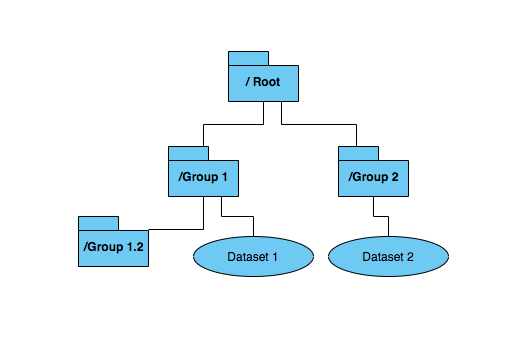
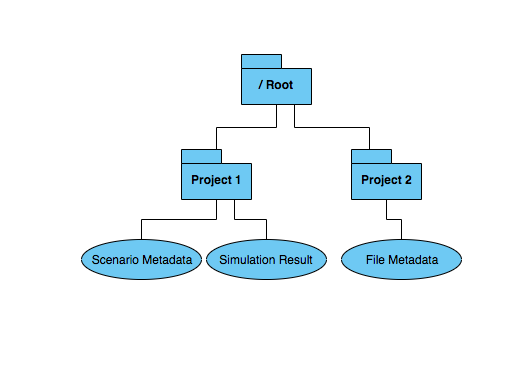
Revision 3.6

Changed region(s): [[0.1468, 0.1479, 0.91, 0.8284]]

diff --git a/chapter/introduction/introduction.tex b/chapter/introduction/introduction.tex
@@ -4,7 +4,7 @@
 \newpage
 %\part{start}
     \chapter{Introduction}
-    Nowadays consumers and businesses are continuously growing aware of the value of archives. As the archived data has also proven
+    Nowadays consumers and businesses are continuously getting aware of the value of archives, as the archived data has also proven
     to be valuable asset in the field of scientific research where an expert could archive their data for future reference. Having said that, the 
     MARS\footnote{MARS: Multi Agent Research and Simulation} framework offers an easy interactive platform for a domain expert i.e. ecologist, biologist, 
     chemist to simulate complex real life scenarios (e.g. reproduction of bacteria in a body) based on the concept of Agent-based modeling and simulation 
@@ -16,7 +16,9 @@
         an Archive service would provide an opportunity for the MARS system to improve their
         performance because this service would move some part of data from the primary storage (Ceph cluster \cite{Ceph}) to the secondary storage (NAS synology \cite{Synology}). 
 
-        The MARS system design is based on a Microservice architecture \cite{MicroserviceNewMan} having a decentralized data \cite{atomic} access structure. 
+        However, the underlying structure of the MARS system is also quite
+        challenging to archive a given simulation with its resources.
+        The system design is based on a Microservice architecture \cite{MicroserviceNewMan} having a decentralized data \cite{atomic} access structure. 
         The MARS Resources have a hierarchal
         structure (Section \ref{subsection:MARSResource}) which has to be followed so a successful simulation can occur. As per the design of MARS these resources
         are stored separately in different storages/databases which should be accessed only by a certain API. Due to this underlying structure of the system it is quite 
@@ -26,19 +28,19 @@
         
         
         \section{Goals}
-        The primary goal of this thesis is to design and implement an Archive service which would be able to deal with the decentralized
+        The primary goal of this thesis is to design and implement an Archive service which would deal with the decentralized
         structure of the MARS framework and provide an easy interface for users to archive and restore the projects and simulations back into the system.
        
         \par
         At the time of writing this thesis, the project resources are stored in a
         Ceph distributed file system \cite{Ceph}. It provides more efficiency, reliability, and
-        scalability by separating data and metadata using a pseudo-random data distribution function\cite[p.~307]{{Ceph}} to store data in 
+        scalability by separating data and metadata using a pseudo-random data distribution function\cite[p.~307]{{Ceph}} inorder to store data in 
         a distributed system \cite{DistributedSystems}. Although
         efficiency and scalability comes at a price, it is financially more expensive to possess such a system in larger volumes.
         In contrast to its continuous data production, the primary storage volume available to the system is very limited.
         Additionally, a high level of correlation has been observed between the operating cost of a software system and its data volume. 
          Therefore, the Archive service would move the requested data from the Ceph storage to the slower NAS\footnote{NAS: Network Attached Storage} Synology
-        \cite{Synology}. This cloud storage is owned by the MARS for backup and archive purpose.
+        \cite{Synology}. This cloud storage is owned by the MARS for backup and archive purposes.
            
 
      
@@ -55,18 +57,17 @@
             to get and post data into their respective databases creating more risk to failures.
             
             \item 
-            \textbf{Data consistency and coherence:} By design the communication within the MARS system is executed via remote network call like HTTP\footnote{HTTP: Hyper Text Transfer Protocol} 
-            or RPC\footnote{RPC: Remote Procedure Calls} making the transactions span over multiple systems. 
-            Therefore it is extremely difficult to maintain a strong data consistency and coherence as the
+            \textbf{Data consistency and coherence:} By design of the MARS system it is necessary for the Archive service to have a distributed transaction. 
+            Therefore, it is extremely difficult to maintain a strong data consistency and coherence as the
             change of data in one database is unknown to the other service since an ACID \cite[p.~290]{{Haerder1983}} transaction between the databases does not exist. Thus, the archiving 
-            process can unintentionally be led into a false state in case of failure during communication.
+            process can unintentionally be led to a false state in case of failure during communication process.
 
             \item 
             \textbf{Understanding MARS resource hierarchy:} The MARS Resource Hierarchy is the order in which the assets in the system have to be created. Understanding
-            this complex hierarchy(Section \ref{subsection:MARSResource}) is vital sincerestoring or archiving data may lead to corrupted states.
+            this complex hierarchy(Section \ref{subsection:MARSResource}) is vital since restoring or archiving data may lead to corrupted states.
             \item
             \textbf{Additional changes to MARS services:}
-            Also, for the Archive service to behave as intended, additional functionalities have to be added into the other services. The Archive service 
+            Also, for the Archive service to operate as intended, additional functionalities have to be added into the other services. The Archive service 
             is only allowed to communicate via API gate i.e. HTTP or RPC as accessing another service's database directly is considered an Anti-pattern \cite[p.~27]{{Torre2017}}.
             It imposes another challenge in understanding the structure and algorithms of services which are drafted in various technologies.
          

diff --git a/chapter/mainpart/theory/distributedSystems.tex b/chapter/mainpart/theory/distributedSystems.tex
@@ -1,7 +1,7 @@
 \section{Distributed Systems}
 
     The MARS cloud is architectured as a distributed system. Thus, it is of great importance to understand
-    this architecture, so that one can anticipate how the MARS framework operates in the background and
+    this architecture, so that one can anticipate the operations of the MARS framework and
     the technical challenges that could occur due to its complex structure.
     \par
     A distributed system can be defined as a number of autonomous computing elements which 
@@ -28,17 +28,17 @@
     Distributed Systems can be utilized to realize a complex application dispersed across
     multiple machines which communicates via a network protocols(e.g. HTTP \cite{HTTP}, 
     GRPC \cite{grpc}). The 
-    components interacts with each other to achieve a common goal. It also provides
-    more reliability than a non-distributed system because there is no single point
+    components interact with each other to achieve a common goal. It also provides
+    more reliability compared to a non-distributed system because there is no single point
     of failure when a system is designed properly. 
 
     \par
     Figure \ref{fig:distributedSystem} shows an example of an application being 
-    distributed amongst different computers. It can also be seen that the the different parts of the application are allowed
+    distributed amongst different computers. It can also be seen that the different parts of the application are allowed
     to communicate via a common middleware whose main responsibility is to
     efficiently manage resources across the distributed applications. This kind of system
     makes most sense for deployment which require high performance computing power as this system can allow an application to share different
-    resources (e.g CPU power, memory and storage) located on another machine.
+    resources (e.g CPU power, memory and storage) located in another machine.
 
 
 
@@ -48,7 +48,7 @@
         \subsubsection{Reliability and Availability}
         One of the main reasons for building a distributed system is to make the application free from single failure events.
         Since the application is generally spread across different nodes connected via a network, failure of a single node will not 
-        crash the system completely. This makes a distributed system more available, reliable and independent to a user as the availability
+        crash the system completely. This makes a distributed system more available, reliable, and independent to a user as the availability
         of the application is not hindered completely.
         
         \subsubsection{Scalability}
@@ -64,22 +64,22 @@
         \subsubsection{Data Coherency}
         The data is said to be coherent when it is uniform across an entire network. In other words, data is coherent when all
         the resources between a server and a client is synchronized. 
-        Since a distributed system is susceptible to network failures, therefore a network partition \cite[p.~59]{CAP} cannot be avoided. In presence
+        Since a distributed system is susceptible to network failures, a network partition \cite[p.~59]{CAP} cannot be avoided. In presence
         of a network partition the change in data will not be synchronized to all of its client leading to have inconsistent data. Furthermore, the
-        complexity to maintaining this coherency increases drastically when the system has more clients trying to gain access to the data. This phenomena
+        complexity to maintain this coherency increases drastically when the system has more clients trying to gain access to the data. This phenomena
         must be taken into consideration while designing an application for this kind of system.
 
         \subsubsection{Network Issues}
-        Generally in a distributed system different applications communicate via network protocols i.e. HTTP, GRPC. It is to be noted that
-        communication via a network is not always reliable. This is because managing a distributed network is rather complex and due to
+        Generally in a distributed system, different applications communicate via network protocols i.e. HTTP, GRPC. It is to be noted that
+        communication via a network is not always reliable. This is because managing a distributed network is rather complex. Also due to
         external reasons the communication can break leading to loss of messages which disables some parts of the application. 
         This phenomena is also not seen in a single system.
 
         \subsubsection{Error Handling}
-        Errors are imminent in every application and for it to continue working normally again it has to be able to detect and recover from them.
+        Errors are imminent in every application and to continue working normally again it has to detect and recover from them.
         Detecting errors in a distributed system requires a different approach since the application is spread across multiple systems. 
-        It is not enough that each service ensures its own correctness because the system is interconnected via some kind of
-        network connection. Due to the fact that network is also involved in a distributed system there is additional error detection methods that have
+        It is not enough that each service ensures its own correctness because the system is interconnected via a
+        network connection. Due to the fact that the network is also involved in a distributed system there are additional error detection methods that have
         to be implemented. This brings up more complications in comparison to a single system where an error is contained within a single system.
 
          

diff --git a/chapter/mainpart/design/ArchiveDesign.tex b/chapter/mainpart/design/ArchiveDesign.tex
@@ -44,14 +44,16 @@ This file system can hold a variety of heterogeneous objects like images, graphs
 The HDF5 format has two primary objects which define the data storage structure:
 \begin{enumerate}
     \item \textbf{Groups:}  They are responsible to organize the data objects in the HDF5 file format. A group can be compared to a directory 
-    in Windows or a Unix system \cite{HDF5}. Figure \ref{fig:HDF5} shows an example of a Group in a HDF5 file. Using the API of the HDF5 libraries a Dataset 
-    (e.g. Dataset1) can be accessed via the path name (e.g. /Root/Group1/Dataset1).
+    in Windows or a Unix system \cite{HDF5}. Figure \ref{fig:HDF5} shows an example of a Group (e.g. project1) in a HDF5 file. Using the API of the HDF5 libraries a Dataset 
+    (e.g. scenario Metadata) can be accessed via the path name (e.g. /Root/project1/scenario Metadata).
     \item \textbf{Datasets:} A dataset can be defined as a multidimensional array of data. This object contains the raw/actual data which one would like to store (e.g. simulation results).
     These data are stored in a tabular format 
     one can specify the different data types for the raw data i.e. integer, float, character, variable length strings \cite{HDF5}. Figure \ref{fig:dataset} shows
     an example of a Dataset in a HDF5 file which is stored in a an array.
 \end{enumerate}
-%The Groups in the 
+
+Figure \ref{fig:HDF5} also shows how the groups and datasets can be used to archive the MARS projects. Every new project to be archive will be added as a new Group
+as depicted in the figure and the datasets are the resources i.e. scenario, file, simulation results. 
 
 \begin{figure}[H]
     \centering \includegraphics[scale=0.6]{grafiken/groupsHDF5.png}
@@ -74,15 +76,23 @@ data should be easily accessible to a non expert and using MongoDB requires some
 
 
 \subsubsection{Conclusion}
-   After careful consideration,  
-    it seems so that HDF5 file formats is not suitable for the archive and retrieve process.      
-    To store the data in an HDF5 format the JSON formated metadata must be parsed first and then
-    be stored in the multidimensional array structure of HDF5. Since it is very complicated to parse the metadata of different models this
-    file format will not be used for this thesis. 
-
-    Lastly, the file format for archive is planned to be JSON for the metadata files i.e. simulation runs, simulation plans, scenarios and, result configuration. All the project resources will be packed inside a folder in the Synology (See Figure \ref{fig:synology})
-    which is easily accessible via the MARS network. The decision to use JSON is due to the fact that the API in the MARS back end services 
-    use the JSON structure to communicate. Using this structure simplifies the process of archive and also retrieve as the metadata can be easily saved.
+   %The HDF5 is a very powerful file format providing more efficient data storage and lookup by separating its raw data with its metadata. 
+    To store the data in HDF5 all the attributes of the metadata in JSON must be parsed in a n-dimensional array structure which can be understood by the HDF5. 
+    It is important to understand that MARS supports different kind of models which makes it impossible to predict the structure of a resource. To elaborate, the
+    Wolves and Sheep \cite{HAWHamburgMARS} model has a different metadata structure than the KNP \cite{HAWHamburgMARS} model as the Agents and Layers involved are 
+    different. Due to this reason, the resources
+    must be parsed every time into a n-dimensional array and at the time of restore this has to be converted back to a JSON again as the MARS system
+    does not understand the HDF5 structure. In addition, to not parse the data at all, a 1 dimensional array of size 1 was created of type variable string. All the unparsed text data
+    was stored in this array. The main intention of this experiment was to see how the HDF5 files would react as it easy to get the string from a 1d array.
+    This also turned out to be a very bad idea as it created so much overhead to the file that a JSON file with the size of 2 KB
+    had a file size of around 0.5MB for the HDF5 variant. 
+    
+    Considering the above mentioned factors the file format for the metadata is planned to be JSON. Different advantages such as easy handling, no extra conversion
+    required, easy conversion to different types of file format i.e. CSV used often in the MARS for analysis makes it more suitable for this purpose. 
+    In comparison to the simulation results (can range up to TB of data) the metadatas are not large and the meta files for each kind of resources
+    are going to be stored separately (e.g. scenario.json, resultConfiguration.json). Splitting the JSON files like this would aid in faster serialization and 
+    deserialization. As the input files and the simulation results do not need to be read they are just chosen to be zipped.
+ 
 \begin{figure}[H]
     \centering \includegraphics[scale=0.45]{grafiken/archiveActivity.png}
     \caption{Activity Diagram of MARS project Archive process}

diff --git a/chapter/mainpart/conclusion/conclusion.tex b/chapter/mainpart/conclusion/conclusion.tex
@@ -3,26 +3,26 @@ This work presents the design and implementation of the Archive service within t
 in this paper concentrates on aspects of archiving and restoring the resources of a project stored in a distributed storage, managing the synchronization
 -- control of the MARS Resources hierarchy mentioned in Section \ref{subsection:MARSResource} and failure recovery using the Two Phase Commit strategy
 on decentralized data \cite{atomic}.
-Also, a brief overview of the challenges and introduction to MARS system is included.
+Also, a brief overview of the challenges and introduction to MARS system.
 
-As seen, there are different strategies to access the decentralized data for archiving, but decision of accessing the data was done via communicating
+As seen, there are different strategies to access the decentralized data for archiving. However, the decision of accessing the data was done via communicating
 with the corresponding service's API which gives more transparency to the system since only one entity is given access to a particular data source at the price of 
 complexity of maintaining the service which includes multiple point failure and data corruption possibilities. The service designed is aimed to handle such situations
 to its best using the mentioned strategies in Chapter \ref{chap:design}.
 
 Finally, in the process of developing this system a deep understanding of Distributed System, Microservice together with the state-of-the-art technological stacks
-such as Kubernetes \cite{kubernetes}, Docker etc has been established. Together with this knowledge an Archive service for the MARS framework has been implemented and integrated 
-that would aid in improving the performance of the MARS system by moving inactive data into the Synology storage.
+such as Kubernetes \cite{kubernetes}, Docker, etc., has been established. Together with this knowledge, an Archive service for the MARS framework has been implemented and integrated 
+which aids in improving the performance of the MARS system by moving inactive data into the Synology storage.
 
 \section{Further Work}
 It is a point of interest that the Archive service would be further enhanced. Firstly, it is seen that the current UI design of the archive process is not very convenient
-for the users as the archived and unarchived projects are grouped together which may produce some confusion. One proposal would be to design a separate section
-where the archived projects could be shown. To aid this process the implementation of the mark showing if the project is archived or not is already included which is
+for the users as the archived and unarchived projects are grouped together which may produce some confusion. One proposal could be to design a separate section
+where the archived projects could be shown. To aid this process the implementation of the mark showing if the project is archived or not is already included, which is
 changed via the Archive service. 
 
 Secondly, improving the performance of the archive and retrieve would also be a factor to be considered next. The archive and retrieve process are implemented as
-an atomic operation. Therefore, in case of failure the process is repeated from the starting causing big performance loss for larger projects. More research and effort
-has to be put forward to obtain a solution for this issue. 
+an atomic operation. Therefore, in case of failure the process is repeated from the beginning, causing big performance loss for larger projects. More research and effort
+have to be put forward to obtain a solution for this issue. 
 
 It can be noticed from the sequence diagram that the resources are being persisted right after they are successfully retrieved rather than a bulk operation
 (e.g. sequence number 1.8 in Figure \ref{fig:sequenceArchive}). This

diff --git a/chapter/mainpart/analysis/functional.tex b/chapter/mainpart/analysis/functional.tex
@@ -47,7 +47,7 @@
         \subsubsection{Assurance of correct data being persisted}
             MARS being a Distributed System, Data Coherency (Subsection \ref{subsection: distriChallenges}) 
             is one of the big issue which this thesis faces. As a consequence,
-            wrong or unwanted data could be archived. Therefore the Archive service must ensure that while an archive is running the data would not be
+            wrong or unwanted data could be archived. Therefore, the Archive service must ensure that while an archive is running the data is not
             altered.
         
         \subsection{Retrieve Project Resources}    
@@ -62,12 +62,12 @@
             \end{figure}
 
             Figure \ref{fig:synology} illustrates that the Archive service must only use the volume assigned for archiving and nothing more. 
-            This requirement must be fulfilled to comply with the MARS development standard. It has to also be made sure that the retrieved
+            This requirement must be fulfilled to comply with the MARS development standard. It also has to be made sure that the retrieved
             resources are usable (e.g. the restored simulation plans should be able to run a simulation again). 
 
         \subsection{Archive and Retrieve Process Status}  
-            The archive and retrieve processes are a long running tasks. The designed software must run these processes in the background to avoid 
-            long waiting time for another request. Given this, a API endpoint must be made available which gives the current status of the archive 
+            The archive and retrieve processes are long running tasks. The designed software must run these processes in the background to avoid 
+            long waiting time for another requests. Given this, a API endpoint must be made available which gives the current status of the archive 
             or retrieve job. Using the status a user can determine whether the job is being executed or is finished.
 
 
@@ -75,11 +75,11 @@
         \label{sec:anaCompress}
             It is of great importance for a domain Expert i.e. ecologist who are not technical experts to have a graphical interface. In this interface,
             it must be possible to navigate to the project of interest and easily download the project as a zip file. There could be cases where the
-            MARS system is out of order and the data is required which could then be accessible by anyone with basic knowledge of the system.
+            MARS system is out of order and the data is required. Then it can be accessible by anyone with basic knowledge of the system.
         
         \subsection{Fault-Tolerant Design}   
         Firstly, the Archive service has to communicate with many services in the system, leading the rate of failure being higher
         in comparison to a system which does not depend on other services. A breakdown 
-        of one service would cause the whole process of archive/retrieve to stop unexpectedly.  Secondly, it is also possible that a running Archive service be terminated
+        of one service would cause the whole process of archive/retrieve to stop unexpectedly. Secondly, it is also possible that a running Archive service be terminated
         due to some unexpected reason. Therefore, fault tolerance mechanism has to be included in the Archive system so that it has a chance of 
         recovery. 

diff --git a/chapter/mainpart/implementation/FtImplemtation.tex b/chapter/mainpart/implementation/FtImplemtation.tex
@@ -4,17 +4,17 @@ The MARS system is very susceptible to different kinds of errors due to the arch
 system is needed which would try to recover in case of any transient errors. For the Archive service an open source framework
 named Hangfire is used for implementing the design in Section \ref{sec:ftDesign}. This framework is used because it provides
 the functionality mentioned in the design section including many additional features i.e. reliability, easy maintainability and simplicity. It can be called
-reliable because when a background process is created using this framework would persist the input parameters, method call in a database. 
-This is also know as the forget and fire feature. It would
+reliable because when a background process is created, the usage of this framework would persist the input parameters, retry times, method name etc., in a database. 
+This is also known as the Forget and Fire feature \cite{Hangfire}. It would
 ensure that the jobs triggered once will always be executed and retried. As an example, if the
-Archive service restarts during a running process in the general case the job cannot be recovered but this framework will check if 
-there are any incomplete jobs and will start them automatically. This forget and fire 
+Archive service restarts during a running process, in the general case the job cannot be recovered. However, this framework will check if 
+there are any incomplete jobs and will start them automatically. This Forget and Fire 
 feature ensures that the triggered processes would always run compared to the native threading offered by ASP .NET Core.
 Listing \ref{lst:hangfire}
 shows the simplicity of how a job retry can be configured in case of an exception. One of the biggest disadvantages of this framework is that it is 
 tightly coupled
-with a database. If there is a connection issue present between the Archive service and the database the whole service will be facing a downtime.  Although, the 
-benefits this framework provides outweighs its disadvantage.
+with a database. If there is a connection issue present between the Archive service and the database the whole service will be facing a downtime. However, the 
+benefits this framework provides outweighs its disadvantages.
 
 \begin{lstlisting}[language={[Sharp]C}, caption={Hangfire retry attempt configuration}, captionpos=b,label={lst:hangfire}]
 private IServiceCollection BuildServices(IServiceCollection services)

diff --git a/chapter/mainpart/theory/mars.tex b/chapter/mainpart/theory/mars.tex
@@ -37,13 +37,13 @@
             \item
                 \textbf{Upload models and its corresponding layers}:  The model upload is the first step required
                 for a simulation to take place. The model contains information of the behaviour of the agents
-                during a simulation run. The input files containing initialization data of the layers i.e. GIS, Time series, Obstacle, Potential field are also uploaded
+                for a simulation run. The input files containing initialization data of the layers i.e. GIS, Time series, Obstacle, Potential field are also uploaded
                 in this step. 
 
             \item 
                 \textbf{Create a scenario}: A scenario of a project can be described as the initialization of the model.
-                The process of creating a scenario, attributes like number of agents i.e. wolves, sheep are specified. 
-                The uploaded layer initialization data like the GIS, Time series etc, are assigned to the scenario when required. 
+                In the process of creating a scenario, attributes like number of agents i.e. wolves, sheep are specified. 
+                The initialization data files like the GIS, Time series etc., are assigned to the scenario when required. 
                 The global parameters such as start date and end date of a simulation is also specified.
 
             \item 
@@ -65,7 +65,7 @@
             \label{fig:marsDependency}
         \end{figure}
         
-        Figure \ref{fig:marsDependency} shows the dependencies between the MARS. It can be observed
+        Figure \ref{fig:marsDependency} shows the dependencies between MARS resources. It can be observed
         that the order of existence of the resources has to be from the \textbf{project} to the \textbf{simulation} results 
         (bottom to top) when adding a new simulation. Failure to follow this hierarchy will result in failure to
         successfully run a simulation.

diff --git a/chapter/mainpart/theory/microservices.tex b/chapter/mainpart/theory/microservices.tex
@@ -4,9 +4,9 @@ Microservice is a specialized implementation of Service Oriented Architecture(SO
 is a functional unit that performs a specific business action (e.g. user authentication) accessed typically via a network that 
 encapsulates its state and the operations performed on the data.  
 Figure \ref{fig:objectBasedDS} illustrates an example of Service Oriented Architecture (SOA) in a distributed system where different services call each others interface
-to perform a certain action. Although microservices are built using the SOA paradigm they have their differences. In a microservice, a service can be deployed and 
+to perform a certain action. Although microservices are built using the SOA paradigm, they have their differences. In a microservice, a service can be deployed and 
 operated independently because the services are designed to be more fine grained with a single purpose, unlike SOA. 
-Also they are lightweight and Domain Driven \cite{DDD} that makes the application simple to understand, develop and test. The smaller set of services
+Also they are lightweight and Domain Driven \cite{DDD} that makes the application simple to understand, develop, and test. The smaller set of services
 can be developed autonomously by different teams and be deployed quickly as they usually are lightweight in nature. This architecture promises to bring loose coupling 
 by separating a big application into smaller logical units. 
 

diff --git a/chapter/mainpart/design/restoreDesign.tex b/chapter/mainpart/design/restoreDesign.tex
@@ -59,7 +59,6 @@ this issue. In case of any failure during retrieval, the partially restored reso
     Also, marking of the resources is not done before the start process, in contrast to the archive because Data Coherency issues are not present as the archived
     data is store in a centralized storage i.e. Synology accessed only by archive service.   
 
-\newpage
 Figure \ref{fig:sequenceRestore} illustrates the sequence diagram for the retrieve process. The starting step is similar to the archive process where a
 check is made if a process for the project is running or not. If a process is found running then the restore process will be denied. After a
 successful job creation the file metadatas are fetched from the archives. Using them the corresponding files are uploaded one after the other. 

diff --git a/chapter/mainpart/theory/archive.tex b/chapter/mainpart/theory/archive.tex
@@ -1,5 +1,5 @@
 \section{Archive}
-Archiving in computer science is an act of storing single or collection of data with its metadata for long-term retention. The data being archived is 
+Archiving in computer science is an act of storing single or a collection of data with its metadata for long-term retention. The data being archived is 
 not needed currently in the active system. Generally these data are valuable for an organization or an individual which is not to be discarded but are seldomly needed. 
 This brings forward the need of relocating the data into a cheaper storage i.e. archiving. Traditionally, these kinds of data were stored in magnetic tapes but nowadays 
 due to availability of cheaper NAS\footnote{NAS: Network Attachted Storage} primary storage, 
